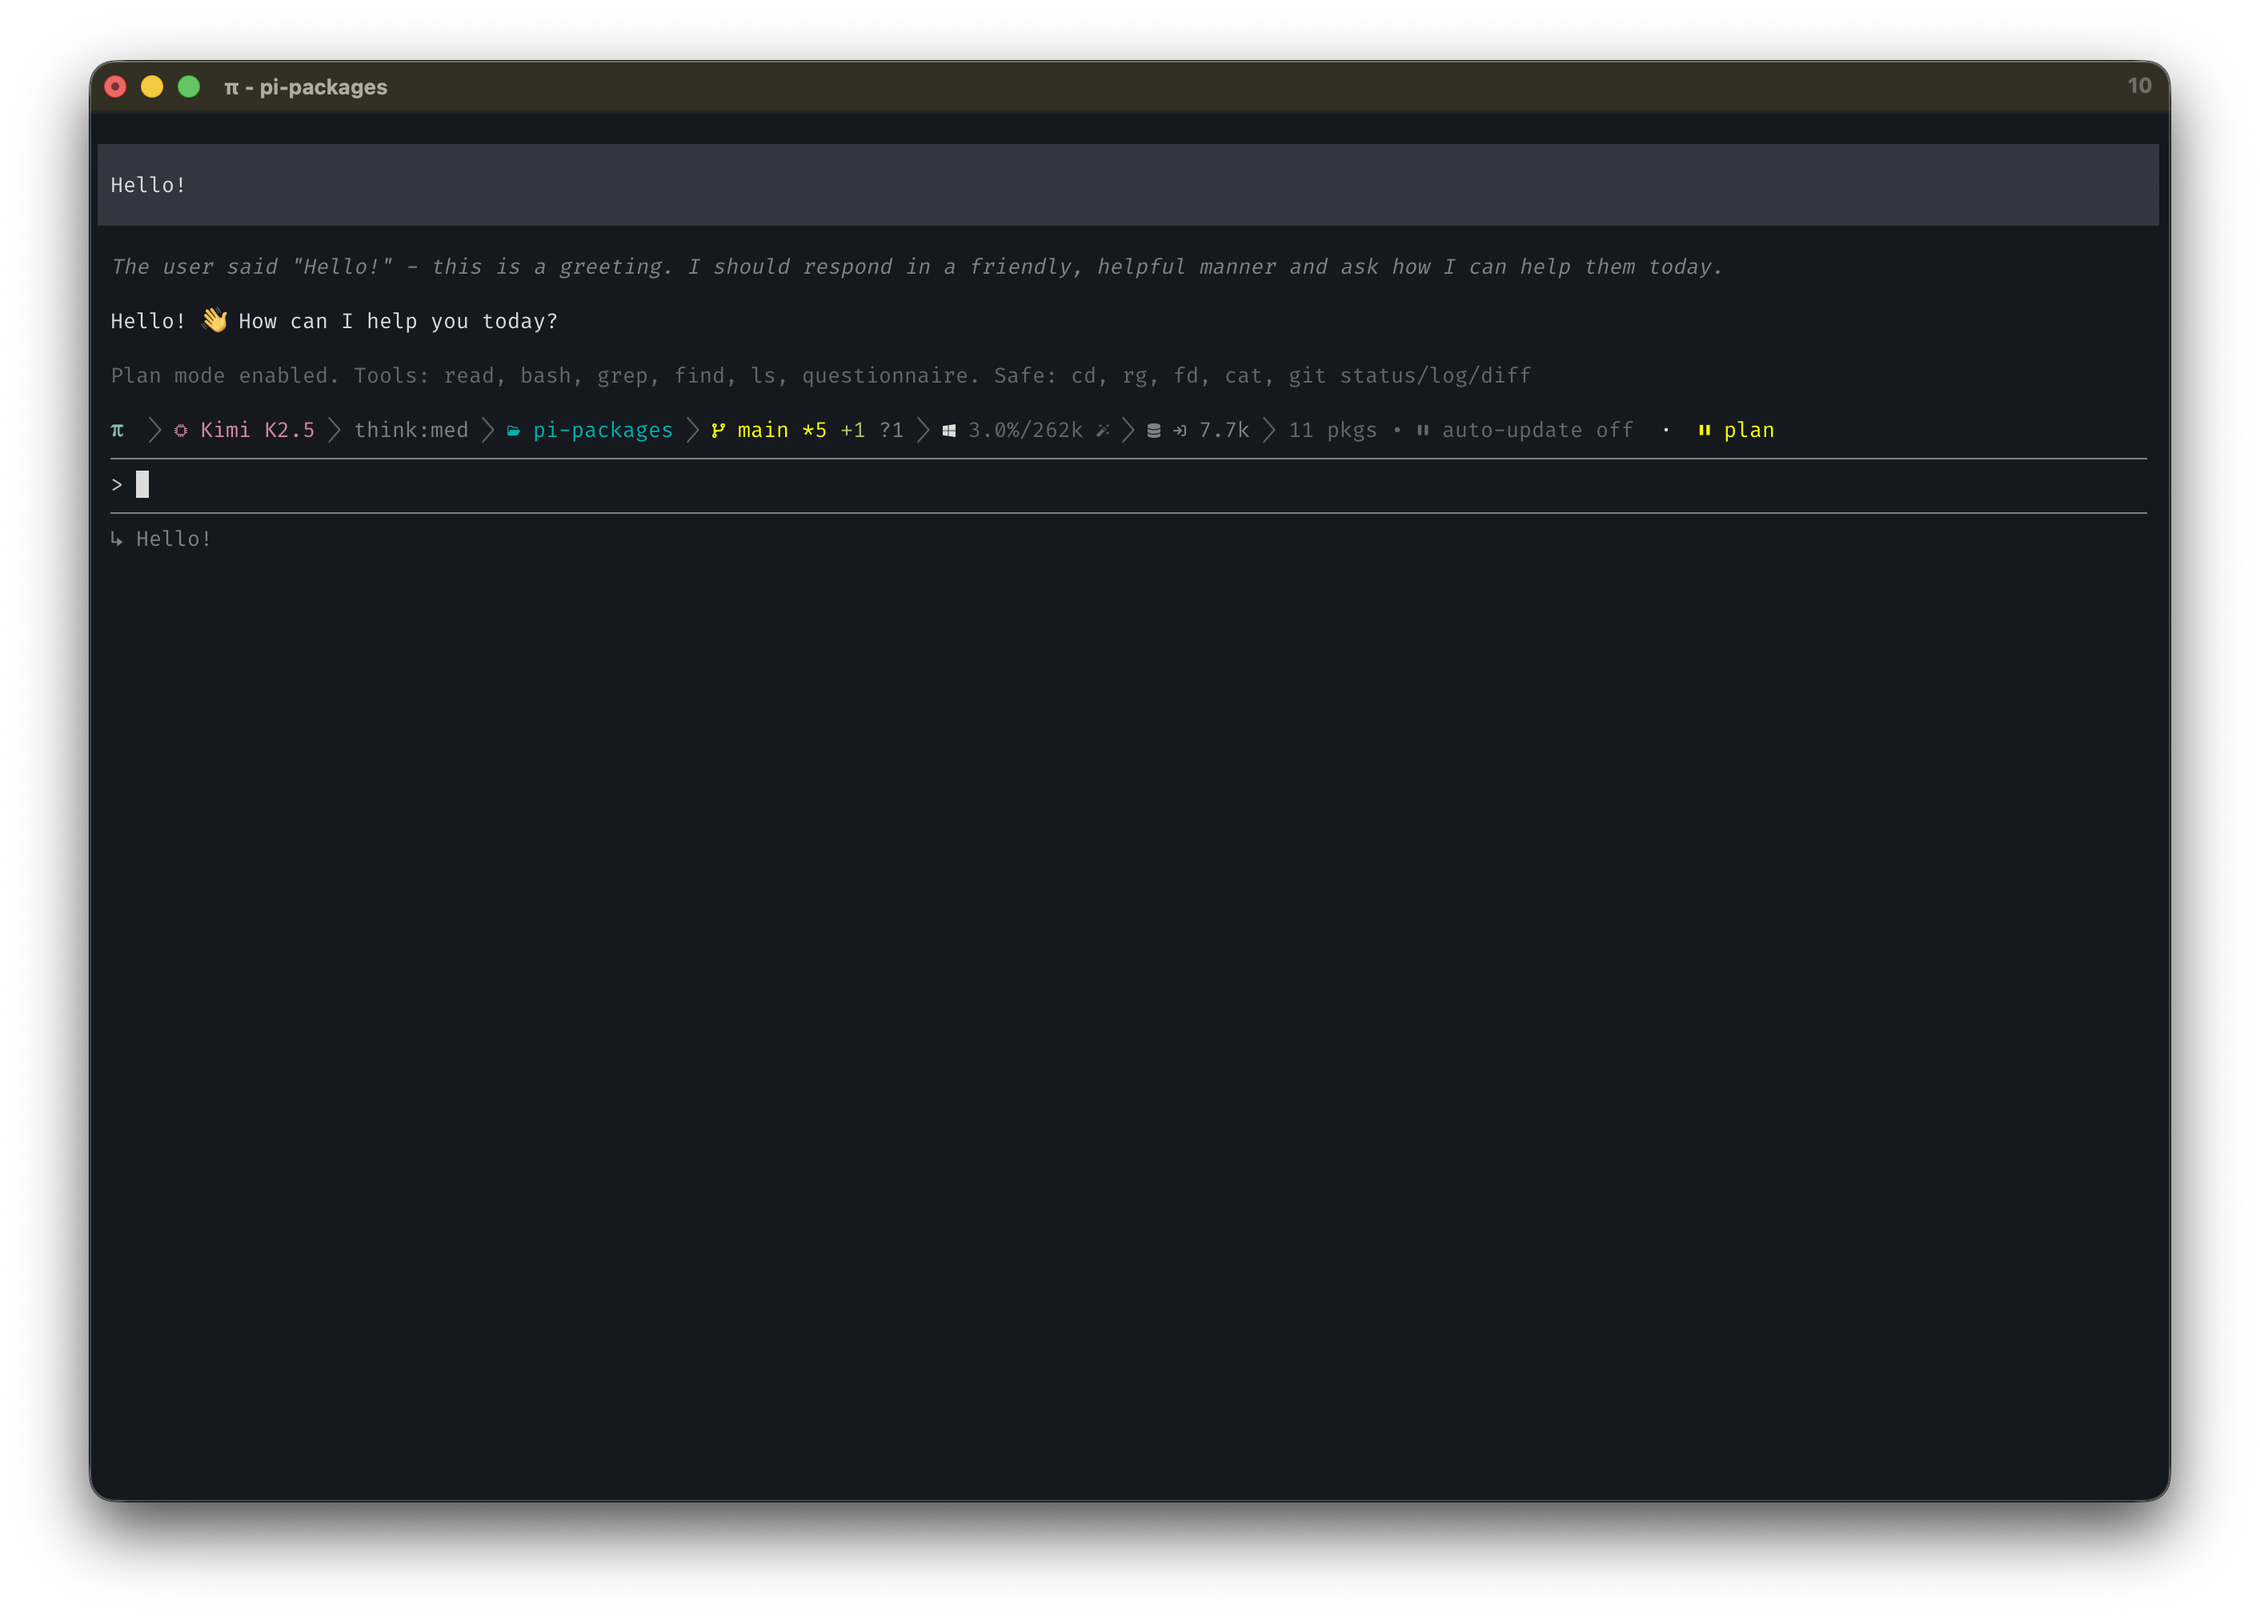
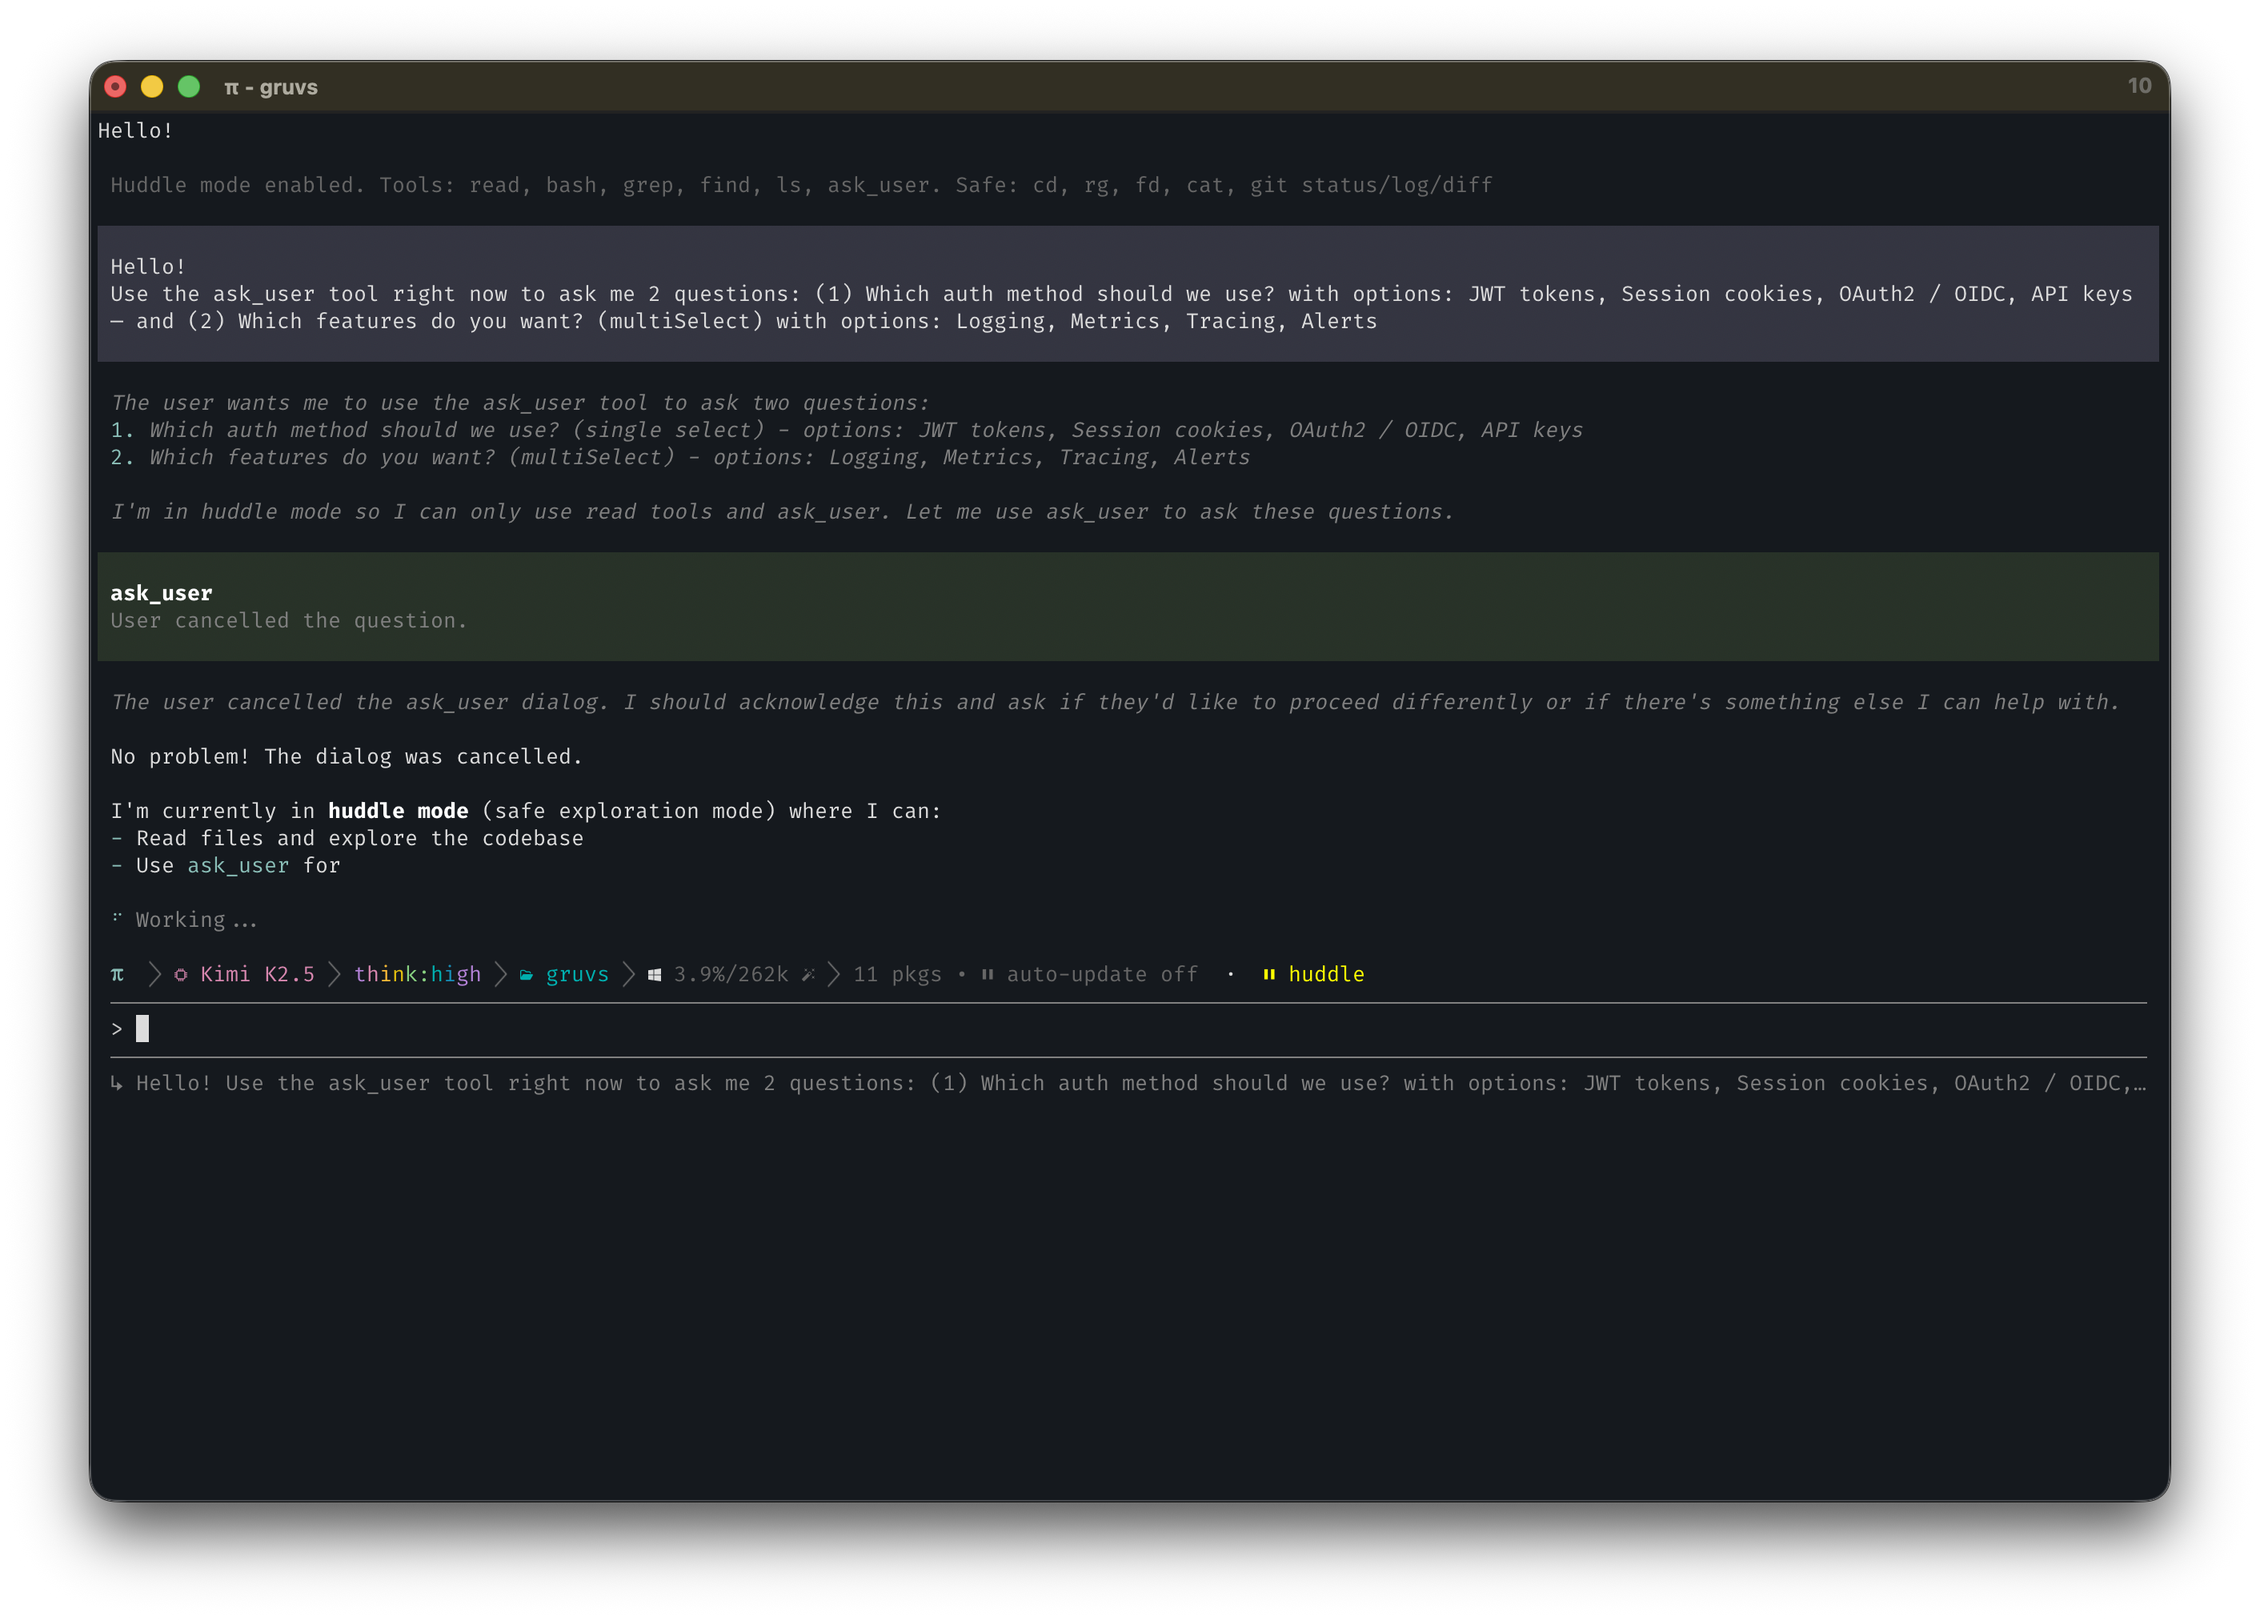
feat(pi-huddle): add screenshots and update keystroke script
- Add ask-user-screenshot.png showing the ask_user dialog in action
- Update screenshot.png showing huddle mode status bar
- Rename keystrokes/plan-mode.sh -> huddle.sh, update to Alt+H
- huddle.sh captures ask_user dialog mid-run then screenshot.png after
- Update README to reference both screenshots
- Add ask-user-screenshot.png to package.json files

diff --git a/README.md b/README.md
@@ -1,5 +1,9 @@
 # pi-huddle
 
+![Huddle mode — permission-gated exploration](screenshot.png)
+
+![ask_user — structured multi-question elicitation](ask-user-screenshot.png)
+
 ```bash
 pi install @ssweens/pi-huddle
 ```
